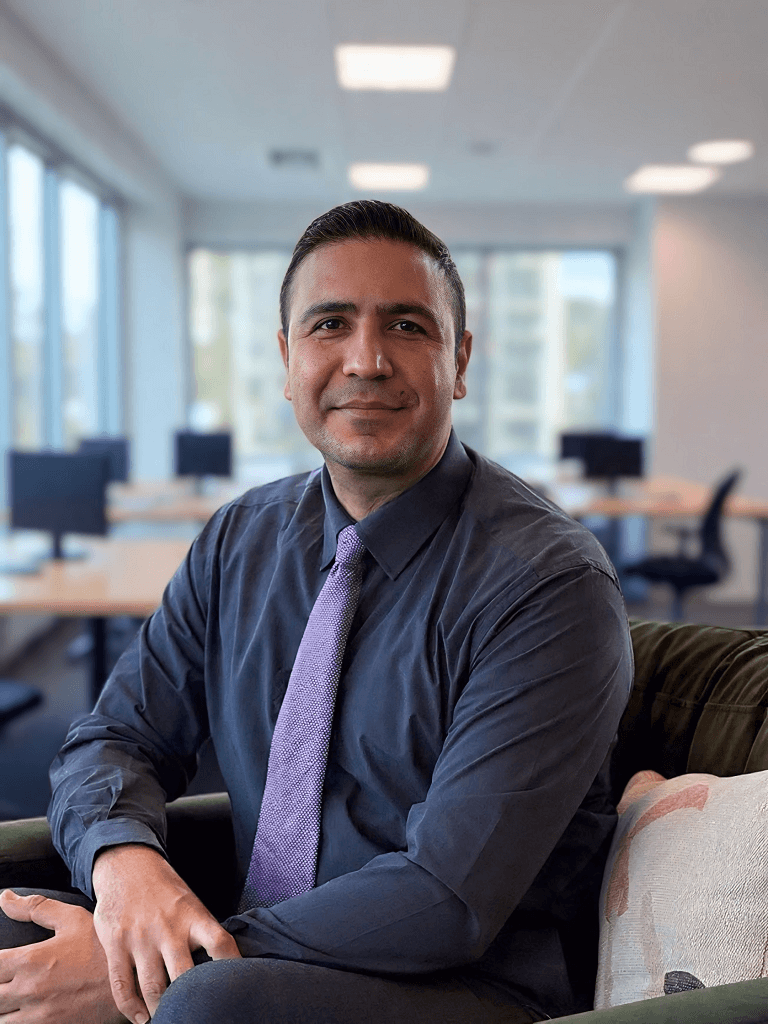
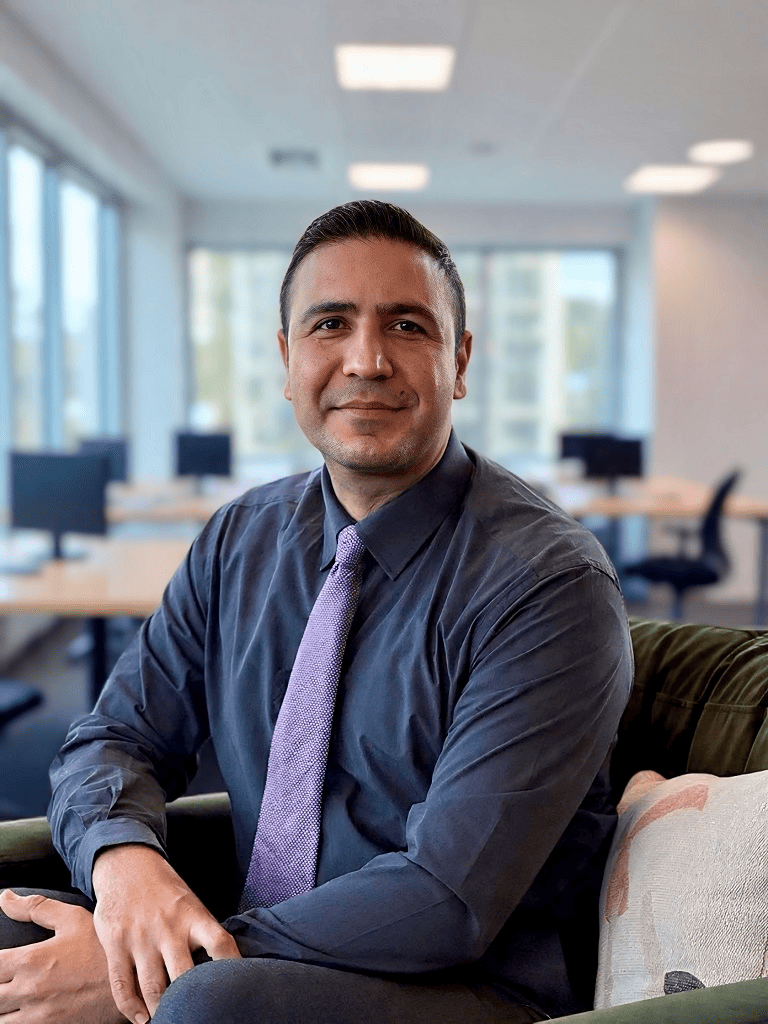
remove amny academy words in the above of Nova Nest and replace the image of Dr and header of the our team

diff --git a/app/[lang]/our-team/page.tsx b/app/[lang]/our-team/page.tsx
@@ -36,7 +36,7 @@ export default function TeamPage({
       </div>
       <div className="inline md:hidden">
         <Banner
-          image="/static/images/our-team/header-mobile.png"
+          image="/static/images/our-team/header-mobile.jfif"
           title={t('title')}
           lang={lang}
           // className="h-[80vh]"

diff --git a/components/home/Footer.tsx b/components/home/Footer.tsx
@@ -121,7 +121,7 @@ export default function Footer({
       <div className="max-w-responsive mx-auto p-4 border-t border-tableHeader text-center text-tableHeader">
         © Copyright {GetYear()} by{' '}
         <Link href={`${base}`} className="text-tableHeader">
-          Nova Nest Academy
+          Nova Nest
         </Link>
       </div>
 